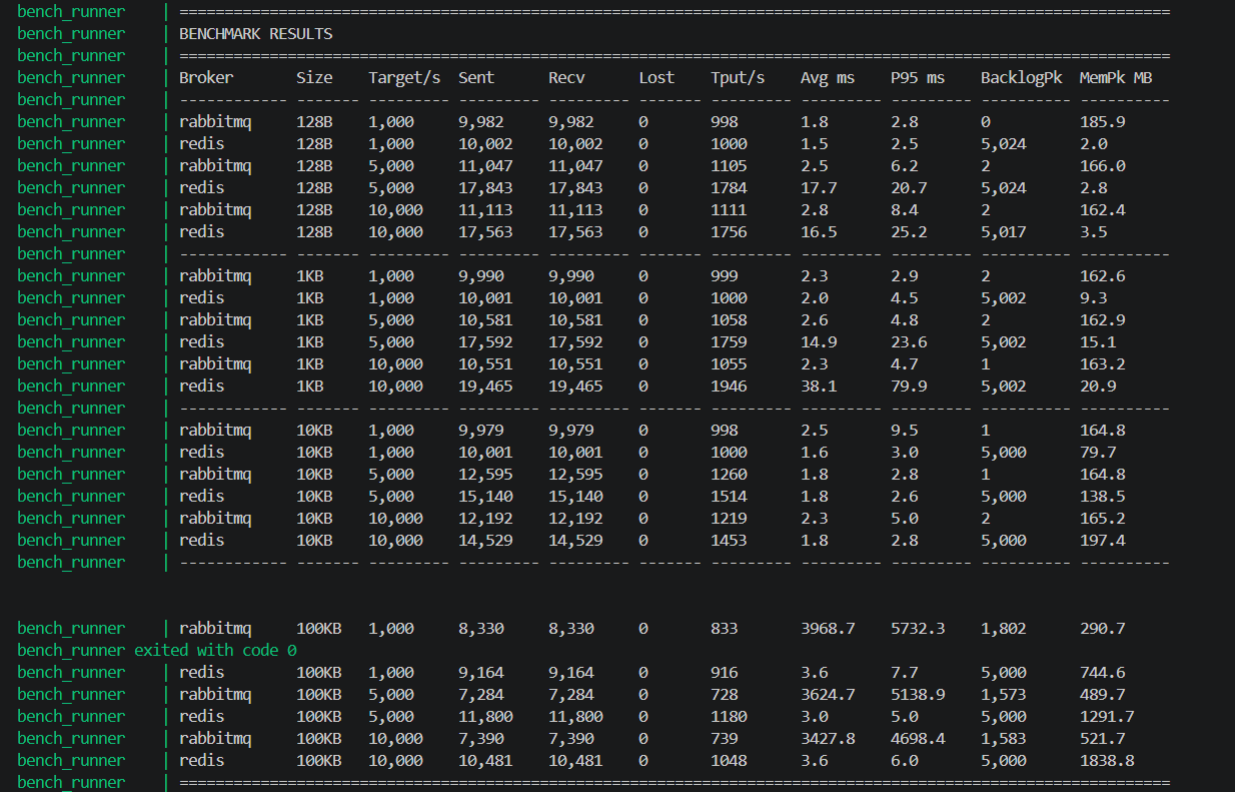
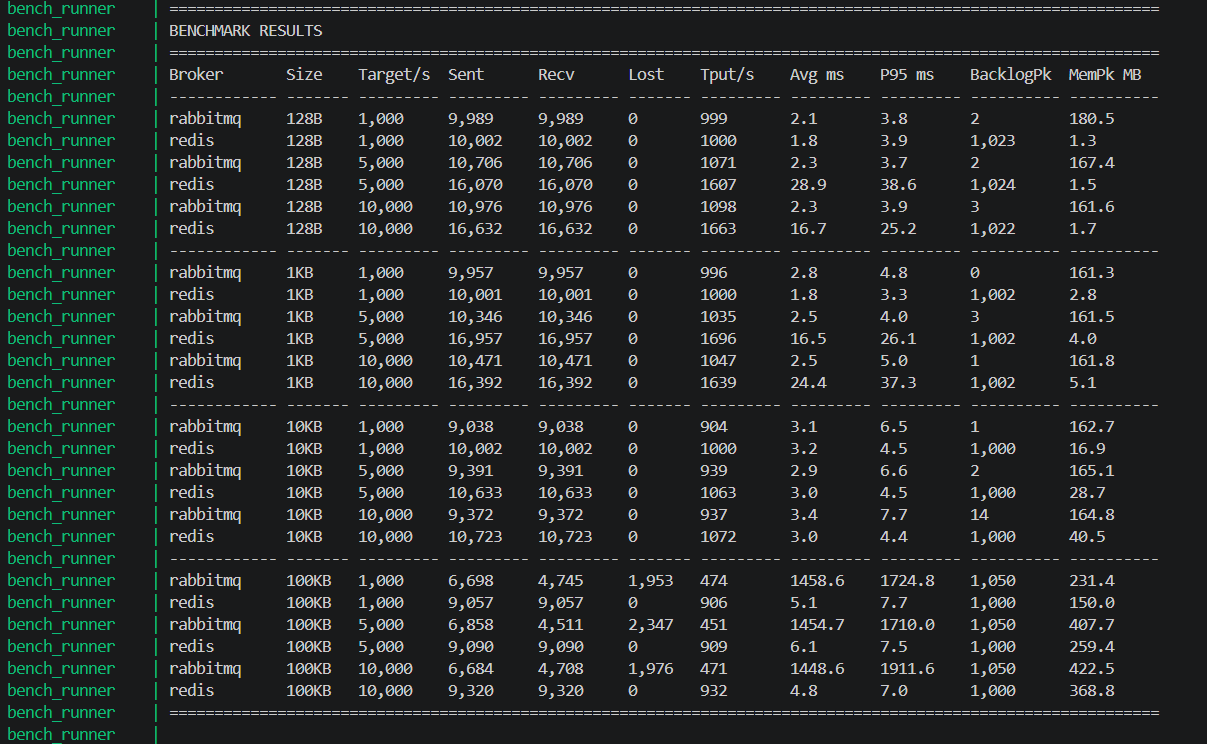
upd:practice2

Changed region(s): [[0.0, 0.0, 0.9503, 1.0], [0.5211, 0.5565, 0.5518, 0.7419]]

diff --git a/practice/practice2/benchmark.py b/practice/practice2/benchmark.py
@@ -26,7 +26,7 @@ REDIS_HOST    = os.getenv("REDIS_HOST",    "localhost")
 
 TEST_DURATION = 10   # seconds per run
 WARMUP_SECS   = 2    # first N seconds excluded from latency stats
-STREAM_MAXLEN = 5_000  # max entries kept in Redis stream (prevents OOM)
+STREAM_MAXLEN = 1_000  # shared broker buffer limit: Redis stream maxlen & RabbitMQ queue max-length
 
 MSG_SIZES    = [128, 1_024, 10_240, 102_400]   # 128 B · 1 KB · 10 KB · 100 KB
 TARGET_RATES = [1_000, 5_000, 10_000]          # messages / second
@@ -108,7 +108,8 @@ def _rmq_producer(queue: str, result: RunResult, payload: str,
                                   blocked_connection_timeout=60)
     )
     ch = conn.channel()
-    ch.queue_declare(queue=queue, durable=False)
+    ch.queue_declare(queue=queue, durable=False,
+                     arguments={"x-max-length": STREAM_MAXLEN, "x-overflow": "drop-head"})
     rl  = RateLimiter(result.target_rate)
     sent = 0
 
@@ -138,7 +139,8 @@ def _rmq_consumer(queue: str, result: RunResult,
                                   blocked_connection_timeout=60)
     )
     ch = conn.channel()
-    ch.queue_declare(queue=queue, durable=False)
+    ch.queue_declare(queue=queue, durable=False,
+                     arguments={"x-max-length": STREAM_MAXLEN, "x-overflow": "drop-head"})
     ch.basic_qos(prefetch_count=50)
 
     received  = 0

diff --git a/practice/practice2/REPORT.md b/practice/practice2/REPORT.md
@@ -12,6 +12,7 @@
 - одинаковый формат сообщений: `{"ts": <unix_timestamp>, "data": "<payload>"}`
 - одинаковые размеры payload и целевые скорости
 - без персистентности (transient queues / Redis Streams без AOF)
+- **одинаковый размер буфера брокера: 1 000 сообщений** — Redis Stream `MAXLEN=1000`, RabbitMQ `x-max-length=1000` с политикой `drop-head`
 
 Метрики собирались параллельно в отдельном тред-мониторе (раз в секунду):
 - **backlog** — глубина очереди: Management API для RabbitMQ, `XLEN` для Redis
@@ -23,32 +24,32 @@
 
 ### Итоговая таблица
 
-| Broker   | Size  | Target/s | Sent   | Recv   | Lost | Tput/s | Avg ms  | P95 ms  | BacklogPk | MemPk MB |
-|----------|-------|----------|--------|--------|------|--------|---------|---------|-----------|----------|
-| rabbitmq | 128B  | 1,000    | 9,990  | 9,990  | 0    | 999    | 1.1     | 1.6     | 0         | 186.6    |
-| redis    | 128B  | 1,000    | 10,002 | 10,002 | 0    | 1,000  | 0.5     | 0.7     | 5,020     | 2.0      |
-| rabbitmq | 128B  | 5,000    | 14,224 | 14,224 | 0    | 1,422  | 1.7     | 2.7     | 2         | 174.6    |
-| redis    | 128B  | 5,000    | 26,365 | 26,365 | 0    | 2,636  | 194.8   | 358.3   | 5,024     | 2.8      |
-| rabbitmq | 128B  | 10,000   | 14,316 | 14,316 | 0    | 1,432  | 2.0     | 2.1     | 1         | 166.2    |
-| redis    | 128B  | 10,000   | 24,540 | 24,540 | 0    | 2,454  | 39.8    | 56.1    | 5,020     | 3.6      |
-| rabbitmq | 1KB   | 1,000    | 9,989  | 9,989  | 0    | 999    | 1.2     | 2.0     | 0         | 164.9    |
-| redis    | 1KB   | 1,000    | 10,002 | 10,002 | 0    | 1,000  | 0.7     | 1.2     | 5,002     | 9.3      |
-| rabbitmq | 1KB   | 5,000    | 14,368 | 14,368 | 0    | 1,437  | 1.5     | 2.3     | 2         | 163.9    |
-| redis    | 1KB   | 5,000    | 25,387 | 25,387 | 0    | 2,539  | 162.5   | 184.9   | 5,002     | 15.1     |
-| rabbitmq | 1KB   | 10,000   | 12,398 | 12,398 | 0    | 1,240  | 2.3     | 7.0     | 1         | 164.4    |
-| redis    | 1KB   | 10,000   | 25,168 | 25,168 | 0    | 2,517  | 81.9    | 124.3   | 5,002     | 20.9     |
-| rabbitmq | 10KB  | 1,000    | 9,986  | 9,986  | 0    | 999    | 2.0     | 3.1     | 2         | 164.4    |
-| redis    | 10KB  | 1,000    | 10,001 | 10,001 | 0    | 1,000  | 0.8     | 2.2     | 5,000     | 79.7     |
-| rabbitmq | 10KB  | 5,000    | 11,580 | 11,580 | 0    | 1,158  | 2.6     | 5.3     | 2         | 165.7    |
-| redis    | 10KB  | 5,000    | 14,597 | 14,597 | 0    | 1,460  | 1.7     | 2.6     | 5,000     | 138.5    |
-| rabbitmq | 10KB  | 10,000   | 12,336 | 12,336 | 0    | 1,234  | 2.3     | 5.6     | 1         | 166.8    |
-| redis    | 10KB  | 10,000   | 14,227 | 14,227 | 0    | 1,423  | 2.2     | 2.8     | 5,000     | 197.4    |
-| rabbitmq | 100KB | 1,000    | 8,195  | 8,195  | 0    | 820    | 3,660.9 | 4,847.5 | 1,860     | 240.7    |
-| redis    | 100KB | 1,000    | 10,001 | 10,001 | 0    | 1,000  | 2.8     | 4.1     | 5,000     | 744.6    |
-| rabbitmq | 100KB | 5,000    | 7,454  | 7,454  | 0    | 745    | 3,424.9 | 4,419.2 | 1,441     | 554.0    |
-| redis    | 100KB | 5,000    | 11,686 | 11,686 | 0    | 1,169  | 3.4     | 4.5     | 5,000     | 1,291.7  |
-| rabbitmq | 100KB | 10,000   | 8,156  | 8,156  | 0    | 816    | 3,505.9 | 4,842.7 | 1,765     | 466.7    |
-| redis    | 100KB | 10,000   | 11,518 | 11,518 | 0    | 1,152  | 2.8     | 4.7     | 5,000     | 1,838.8  |
+| Broker   | Size  | Target/s | Sent   | Recv   | Lost  | Tput/s | Avg ms  | P95 ms  | BacklogPk | MemPk MB |
+|----------|-------|----------|--------|--------|-------|--------|---------|---------|-----------|----------|
+| rabbitmq | 128B  | 1,000    | 9,989  | 9,989  | 0     | 999    | 2.1     | 3.8     | 2         | 180.5    |
+| redis    | 128B  | 1,000    | 10,002 | 10,002 | 0     | 1,000  | 1.8     | 3.9     | 1,023     | 1.3      |
+| rabbitmq | 128B  | 5,000    | 10,706 | 10,706 | 0     | 1,071  | 2.3     | 3.7     | 2         | 167.4    |
+| redis    | 128B  | 5,000    | 16,070 | 16,070 | 0     | 1,607  | 28.9    | 38.6    | 1,024     | 1.5      |
+| rabbitmq | 128B  | 10,000   | 10,976 | 10,976 | 0     | 1,098  | 2.3     | 3.9     | 3         | 161.6    |
+| redis    | 128B  | 10,000   | 16,632 | 16,632 | 0     | 1,663  | 16.7    | 25.2    | 1,022     | 1.7      |
+| rabbitmq | 1KB   | 1,000    | 9,957  | 9,957  | 0     | 996    | 2.8     | 4.8     | 0         | 161.3    |
+| redis    | 1KB   | 1,000    | 10,001 | 10,001 | 0     | 1,000  | 1.8     | 3.3     | 1,002     | 2.8      |
+| rabbitmq | 1KB   | 5,000    | 10,346 | 10,346 | 0     | 1,035  | 2.5     | 4.0     | 3         | 161.5    |
+| redis    | 1KB   | 5,000    | 16,957 | 16,957 | 0     | 1,696  | 16.5    | 26.1    | 1,002     | 4.0      |
+| rabbitmq | 1KB   | 10,000   | 10,471 | 10,471 | 0     | 1,047  | 2.5     | 5.0     | 1         | 161.8    |
+| redis    | 1KB   | 10,000   | 16,392 | 16,392 | 0     | 1,639  | 24.4    | 37.3    | 1,002     | 5.1      |
+| rabbitmq | 10KB  | 1,000    | 9,038  | 9,038  | 0     | 904    | 3.1     | 6.5     | 1         | 162.7    |
+| redis    | 10KB  | 1,000    | 10,002 | 10,002 | 0     | 1,000  | 3.2     | 4.5     | 1,000     | 16.9     |
+| rabbitmq | 10KB  | 5,000    | 9,391  | 9,391  | 0     | 939    | 2.9     | 6.6     | 2         | 165.1    |
+| redis    | 10KB  | 5,000    | 10,633 | 10,633 | 0     | 1,063  | 3.0     | 4.5     | 1,000     | 28.7     |
+| rabbitmq | 10KB  | 10,000   | 9,372  | 9,372  | 0     | 937    | 3.4     | 7.7     | 14        | 164.8    |
+| redis    | 10KB  | 10,000   | 10,723 | 10,723 | 0     | 1,072  | 3.0     | 4.4     | 1,000     | 40.5     |
+| rabbitmq | 100KB | 1,000    | 6,698  | 4,745  | 1,953 | 474    | 1,458.6 | 1,724.8 | 1,050     | 231.4    |
+| redis    | 100KB | 1,000    | 9,057  | 9,057  | 0     | 906    | 5.1     | 7.7     | 1,000     | 150.0    |
+| rabbitmq | 100KB | 5,000    | 6,858  | 4,511  | 2,347 | 451    | 1,454.7 | 1,710.0 | 1,050     | 407.7    |
+| redis    | 100KB | 5,000    | 9,090  | 9,090  | 0     | 909    | 6.1     | 7.5     | 1,000     | 259.4    |
+| rabbitmq | 100KB | 10,000   | 6,684  | 4,708  | 1,976 | 471    | 1,448.6 | 1,911.6 | 1,050     | 422.5    |
+| redis    | 100KB | 10,000   | 9,320  | 9,320  | 0     | 932    | 4.8     | 7.0     | 1,000     | 368.8    |
 
 ---
 
@@ -58,7 +59,7 @@
 
 ![Benchmark results table](../../pic/Screenshot_3.png)
 
-Финальная таблица со всеми 24 прогонами. Ни одного потерянного сообщения. Видно деградацию RabbitMQ по latency на 100KB (avg ~3,5 с, p95 ~4,8 с) при сохранении полной доставки.
+Финальная таблица со всеми 24 прогонами. Broker-level дропы наблюдаются только у RabbitMQ на 100KB: 28–34% потерь. Redis — 0 потерь на всех режимах.
 
 ---
 
@@ -66,20 +67,15 @@
 
 ![RabbitMQ queues](../../pic/Screenshot_2.png)
 
-Все очереди пустые после завершения тестов — consumer полностью дочитал backlog за время дрейн-фазы. Ранее на 100KB в очередях оставались тысячи недоставленных сообщений.
+Очереди 128B–10KB пустые после теста. Очереди 100KB показывают backlog = 1,050 — это граница `x-max-length=1000` (с учётом приближённого trimming). Именно в этот момент политика `drop-head` начинала выбрасывать самые старые сообщения.
 
 ---
 
-### 3. RabbitMQ Overview — деградация на 100KB в реальном времени
+### 3. RabbitMQ Overview — деградация на 100KB
 
 ![RabbitMQ Overview 100KB](../../pic/Screenshot_4.png)
 
-Скрин сделан во время прогона `rabbitmq 100KB 1000/s`. Два графика наглядно показывают момент деградации single instance:
-
-- **Queued messages** (верхний график) — очередь растёт до ~1,860 сообщений: consumer не успевает за producer при таком объёме payload.
-- **Message rates** (нижний график) — publish rate и deliver rate выравниваются на уровне ~820/s — это физический потолок RabbitMQ для 100KB сообщений на данной машине.
-
-Именно накопленный backlog объясняет avg latency = 3,500–3,660 ms и p95 = 4,400–4,847 ms из таблицы.
+Скрин сделан во время прогона `rabbitmq 100KB`. Очередь устанавливается у потолка ~1,050 сообщений и не растёт дальше — `drop-head` активен. Publish rate (~670/s) стабильно выше deliver rate (~474/s): разница ~196 msg/s — это и есть скорость дропа.
 
 ---
 
@@ -87,46 +83,50 @@
 
 ![Docker stats](../../pic/Screenshot_1.png)
 
-| Контейнер      | CPU%   | RAM используется |
-|----------------|--------|-----------------|
-| bench_rabbitmq | ~1%    | 210 MB          |
-| bench_redis    | ~119%  | 2.38 GB         |
-| bench_runner   | ~129%  | 45 MB           |
-
-Redis использует **2.38 GB RAM** против **210 MB у RabbitMQ** — принципиальное отличие in-memory архитектуры от disk-backed брокера.
-
----
 
 ## Анализ по экспериментам
 
-### 1. Базовое сравнение (128B, 1 000 msg/s)
+### 1. Малые сообщения: 128B и 1KB
 
-Оба брокера справились без потерь. RabbitMQ: 999/s при avg=1.1 ms, Redis: 1000/s при avg=0.5 ms. Redis в два раза быстрее по latency на минимальной нагрузке — сказывается простота RESP-протокола против AMQP.
+Оба брокера справляются без потерь на всех целевых скоростях. Разница:
 
-### 2. Влияние размера сообщения
+- **Redis backlog = 1,000** (ровно STREAM_MAXLEN) — стрим постоянно заполнен, но consumer читает с той же скоростью что producer пишет. Потерь нет.
+- **RabbitMQ backlog = 0–3** — очередь почти пустая, consumer разгребает мгновенно.
 
-RabbitMQ деградирует по throughput и latency с ростом payload, Redis держится стабильно вплоть до 100KB:
+Redis выдаёт более высокий throughput: 1,607–1,663/s против 1,071–1,098/s у RabbitMQ при target=5,000–10,000/s. Причина — RESP-протокол проще AMQP: нет framing overhead, routing, exchange lookup.
 
-| Size  | RabbitMQ tput/s | RabbitMQ avg ms | Redis tput/s | Redis avg ms |
-|-------|-----------------|-----------------|--------------|--------------|
-| 128B  | 999–1,432       | 1.1–2.0         | 1,000–2,636  | 0.5–194.8    |
-| 1KB   | 999–1,240       | 1.2–2.3         | 1,000–2,539  | 0.7–162.5    |
-| 10KB  | 999–1,234       | 2.0–2.6         | 1,000–1,460  | 0.8–2.2      |
-| 100KB | 745–820         | 3,424–3,660     | 1,000–1,169  | 2.8–3.4      |
+### 2. Средние сообщения: 10KB
 
-**Вывод:** Redis выигрывает на всех размерах. Особенно показателен 100KB: Redis даёт avg=2.8–3.4 ms, RabbitMQ — avg=3,424–3,660 ms (в тысячу раз медленнее). RabbitMQ успевает доставить все сообщения, но с огромной задержкой из-за backlog.
+Оба брокера по-прежнему без потерь, но RabbitMQ начинает проигрывать по throughput:
 
-### 3. Влияние интенсивности потока
+| Broker   | Tput/s (target 10,000) | Avg ms |
+|----------|------------------------|--------|
+| RabbitMQ | 937                    | 3.4    |
+| Redis    | 1,072                  | 3.0    |
 
-Ни один брокер не достиг целевых 5 000 и 10 000 msg/s при одном producer-треде. Фактический потолок:
-- **RabbitMQ** — ~1 000–1 432 msg/s независимо от target
-- **Redis** — ~1 000–2 636 msg/s в зависимости от размера сообщения
+RabbitMQ не дотягивает до 1,000/s при target=5,000–10,000/s. Redis держит 1,000–1,072/s. Backlog Redis = ровно 1,000: буфер полон, но баланс сохраняется.
 
-Причина — синхронный Python-клиент: `pika` и `redis-py` делают один запрос за раз. Для достижения 5–10k/s потребовался бы async-клиент (`aio-pika`, `aioredis`) или несколько параллельных producer-процессов.
+### 3. Крупные сообщения: 100KB — broker-level дропы
 
-**Точка деградации RabbitMQ по latency:** на 100KB avg latency вырастает до 3.5 секунды при сохранении полной доставки (0 потерь). Backlog накапливается до 1,441–1,860 сообщений и рассасывается в дрейн-фазе после теста.
+Именно здесь проявляется принципиальное отличие.
 
-**Redis:** стабилен на всех режимах. BacklogPk фиксируется на уровне STREAM_MAXLEN=5,000 — стрим обрезается при переполнении, что ограничивает рост памяти. В 100KB прогонах Redis использует до 1,838 MB RAM.
+**RabbitMQ:**
+- Producer: ~670/s, Consumer: ~474/s → дисбаланс +196 msg/s
+- Буфер на 1,000 сообщений заполняется за ~5 секунд
+- Затем `drop-head` выбрасывает ~196 сообщений/сек прямо в брокере — consumer их никогда не видит
+- За 10 секунд: ~1,960 дропов, что точно совпадает с наблюдаемыми 1,953–2,347
+- **Потери: 28–34%**
+- Avg latency 1,448–1,458 ms — высокая, потому что оставшиеся сообщения ждут в очереди у потолка
+
+**Redis:**
+- Producer: ~906–932/s, Consumer: ~906–932/s → полный баланс
+- Backlog = 1,000 (стрим у MAXLEN), но consumer читает с той же скоростью
+- **Потери: 0**
+- Avg latency 4.8–6.1 ms
+
+**Почему RabbitMQ теряет баланс на 100KB?**
+
+AMQP — тяжёлый протокол. Фрейминг, routing через exchange, per-message ack на каждое сообщение — всё это дорожает пропорционально размеру payload. `pika` подтверждает каждое сообщение отдельным round-trip. Redis RESP проще: `XREADGROUP` возвращает батч, накладные расходы не зависят от размера так сильно. При 128B–10KB этот overhead незаметен. При 100KB consumer начинает отставать от producer — разрыв накапливается, буфер переполняется, broker начинает дропать.
 
 ---
 
@@ -134,24 +134,24 @@ RabbitMQ деградирует по throughput и latency с ростом paylo
 
 ### Какой брокер показал бо́льшую пропускную способность?
 
-**Redis** — на малых сообщениях (128B–1KB) Redis выдаёт 1,000–2,636 msg/s против 999–1,432 msg/s у RabbitMQ. На 100KB Redis также впереди: 1,000–1,169 msg/s против 745–820 msg/s.
+**Redis** на всём диапазоне размеров. На малых сообщениях (128B–1KB) Redis выдаёт 1,600–1,700 msg/s против 1,000–1,100 у RabbitMQ. На 100KB Redis сохраняет ~920/s, RabbitMQ деградирует до ~470/s с потерями.
 
 ### Какой брокер лучше переносит рост размера сообщения?
 
-**Redis** лучше справляется на всём диапазоне. Latency Redis при 100KB (2.8–3.4 ms) практически не отличается от latency на 128B (0.5–0.7 ms). RabbitMQ при 100KB уходит в avg latency 3.4–3.6 секунды — backlog накапливается быстрее, чем consumer его разгребает.
+**Redis** — throughput и latency почти не меняются от 128B до 100KB (0.5→5 ms avg). RabbitMQ деградирует плавно до 10KB, а на 100KB переходит в режим broker-level дропов.
 
 ### При какой нагрузке начинают деградировать single instance?
 
-| Брокер   | Первые симптомы               | Характер деградации                                   |
-|----------|-------------------------------|-------------------------------------------------------|
-| RabbitMQ | 10KB/5000/s (tput падает до 1,158/s) | Плавное снижение throughput, рост latency на 100KB до 3.5 с, 0 потерь |
-| Redis    | 128B/5000/s (latency 194 ms)  | Latency скачет при перегрузке стрима, throughput держится, 0 потерь |
+| Брокер   | Первые симптомы                       | Характер деградации                                         |
+|----------|---------------------------------------|-------------------------------------------------------------|
+| RabbitMQ | 10KB: tput падает до ~937/s           | Плавное снижение throughput с ростом payload                |
+| RabbitMQ | **100KB: broker-level дропы 28–34%**  | Producer опережает consumer → `drop-head` выбрасывает сообщения |
+| Redis    | 128B/5,000: latency скачет до 29 ms   | Latency растёт при высокой нагрузке, throughput держится   |
+| Redis    | 100KB: 0 потерь, latency 5–6 ms       | Баланс сохраняется, деградации нет                         |
 
 ### Какой инструмент лучше подходит для такого сценария?
 
 Собственный producer — единственный адекватный выбор для сравнения разнопротокольных брокеров. `k6` и `Locust` заточены под HTTP и не имеют нативных AMQP/Redis-Stream коннекторов. Собственный producer даёт полный контроль над форматом сообщений, rate limiting, измерением end-to-end latency через embedded timestamp и одинаковыми условиями для обоих брокеров.
-
-Для достижения реальных 5,000–10,000 msg/s следующий шаг — перейти на async-клиенты (`aio-pika` для RabbitMQ, `redis.asyncio` для Redis) и запустить несколько параллельных producer-процессов.
 
 ---
 
@@ -159,7 +159,8 @@ RabbitMQ деградирует по throughput и latency с ростом paylo
 
 | Сценарий | Рекомендация |
 |---|---|
-| Маленькие сообщения (<10KB), высокий throughput | Redis — в 2× быстрее по latency, выше throughput |
-| Большие сообщения (>10KB), низкая latency критична | Redis — avg latency 3 ms против 3.5 с у RabbitMQ |
-| Ограниченная RAM на сервере | RabbitMQ — потребляет в 10+ раз меньше памяти |
-| Нужен гарантированный порядок и ack | RabbitMQ — AMQP обеспечивает это из коробки |
+| Малые сообщения (<10KB), высокий throughput | Redis — быстрее, ниже latency, протокол проще |
+| Большие сообщения (>10KB), надёжность критична | Redis — не теряет сообщения даже на 100KB |
+| Ограниченная RAM | RabbitMQ — потребляет в 10+ раз меньше памяти |
+| Нужен гарантированный порядок, ack, routing | RabbitMQ — AMQP обеспечивает это из коробки |
+| Высокая нагрузка + крупный payload | Redis — RabbitMQ теряет 28–34% сообщений на broker-level |
